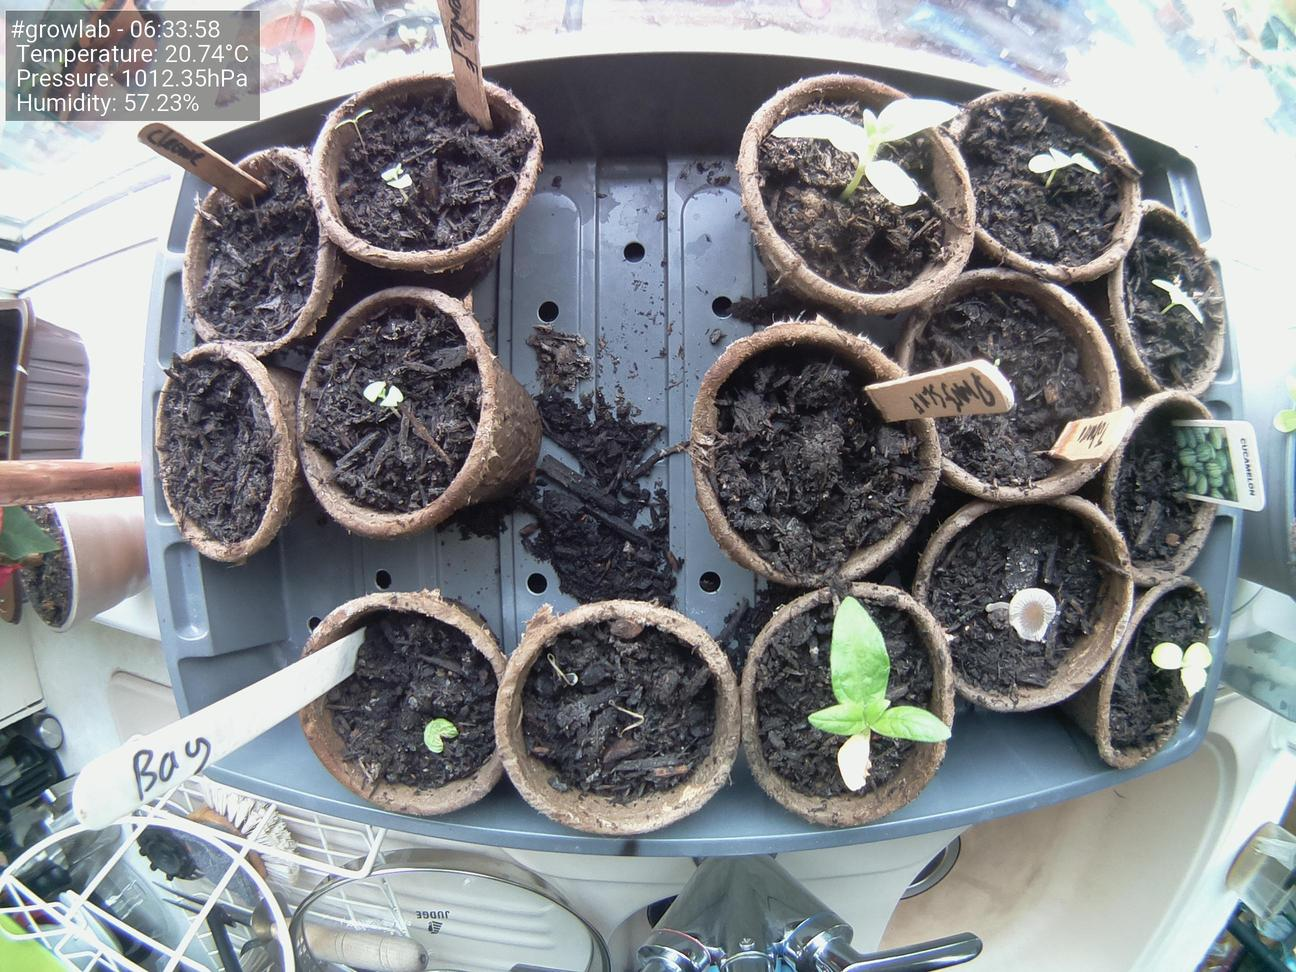
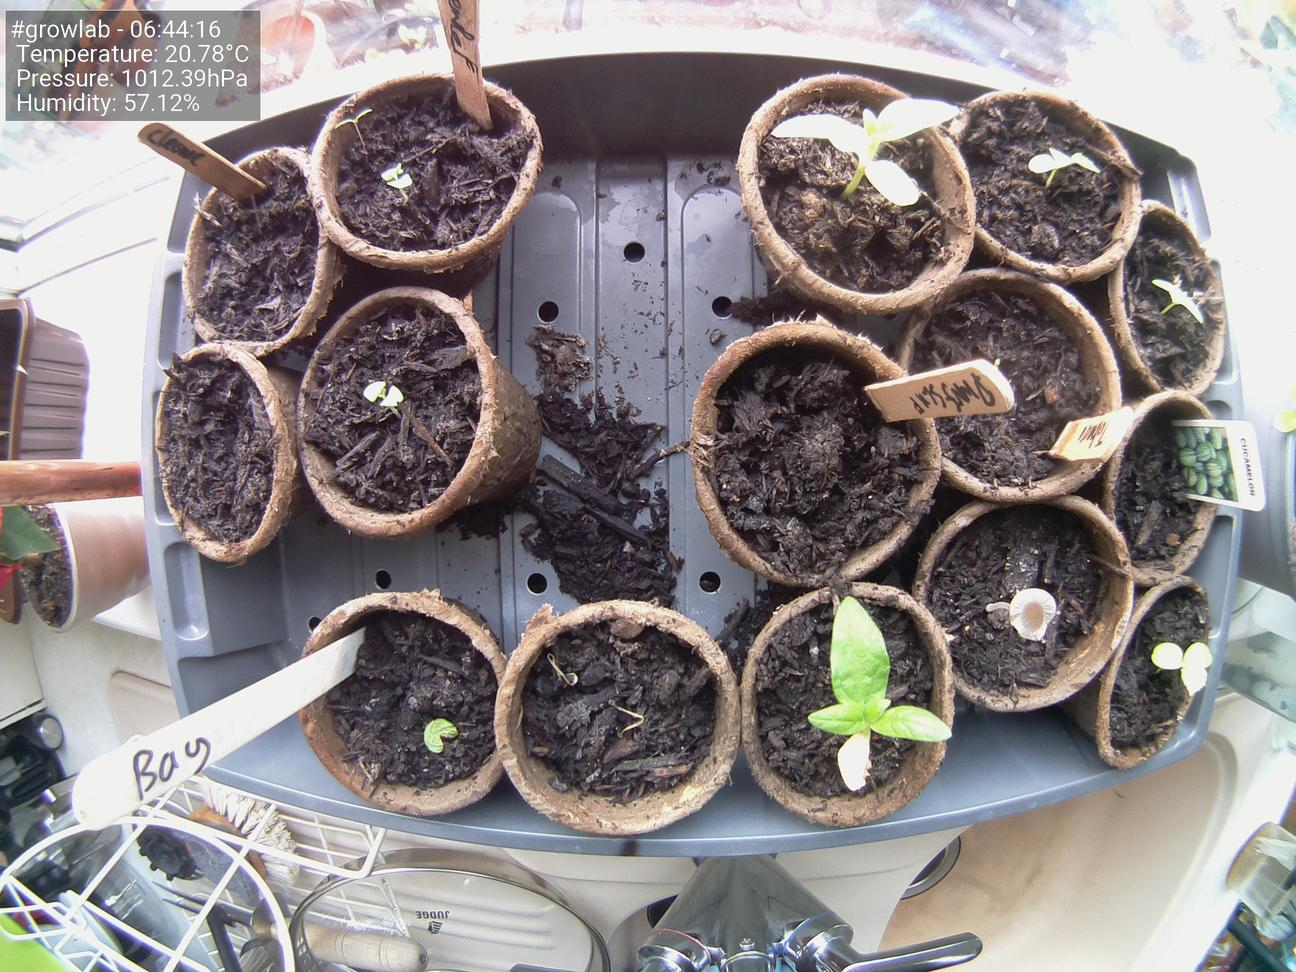
Update images at Mon 21 Jun 06:44:25 BST 2021

diff --git a/docs/index.html b/docs/index.html
@@ -47,19 +47,19 @@
                         <tbody>
                             <tr>
                                 <td>Time</td>
-                                <td>06:33:58</td>
+                                <td>06:44:16</td>
                             </tr>
                             <tr>
                                 <td>Temperature</td>
-                                <td>20.74°C</td>
+                                <td>20.78°C</td>
                             </tr>
                             <tr>
                                 <td>Humidity</td>
-                                <td>57.23%</td>
+                                <td>57.12%</td>
                             </tr>
                             <tr>
                                 <td>Pressure</td>
-                                <td>1012.35hPa</td>
+                                <td>1012.39hPa</td>
                             </tr>
                         </tbody>
                     </table>
@@ -67,7 +67,7 @@
 
                 <h5>Latest image</h5>
                 <div style="width: 85%;">
-                            <img class="figure-img img-fluid rounded" src="./preview.jpg?uid=1624253646.7103329">
+                            <img class="figure-img img-fluid rounded" src="./preview.jpg?uid=1624254264.8497787">
                 </div>
             </div>
         </div>
